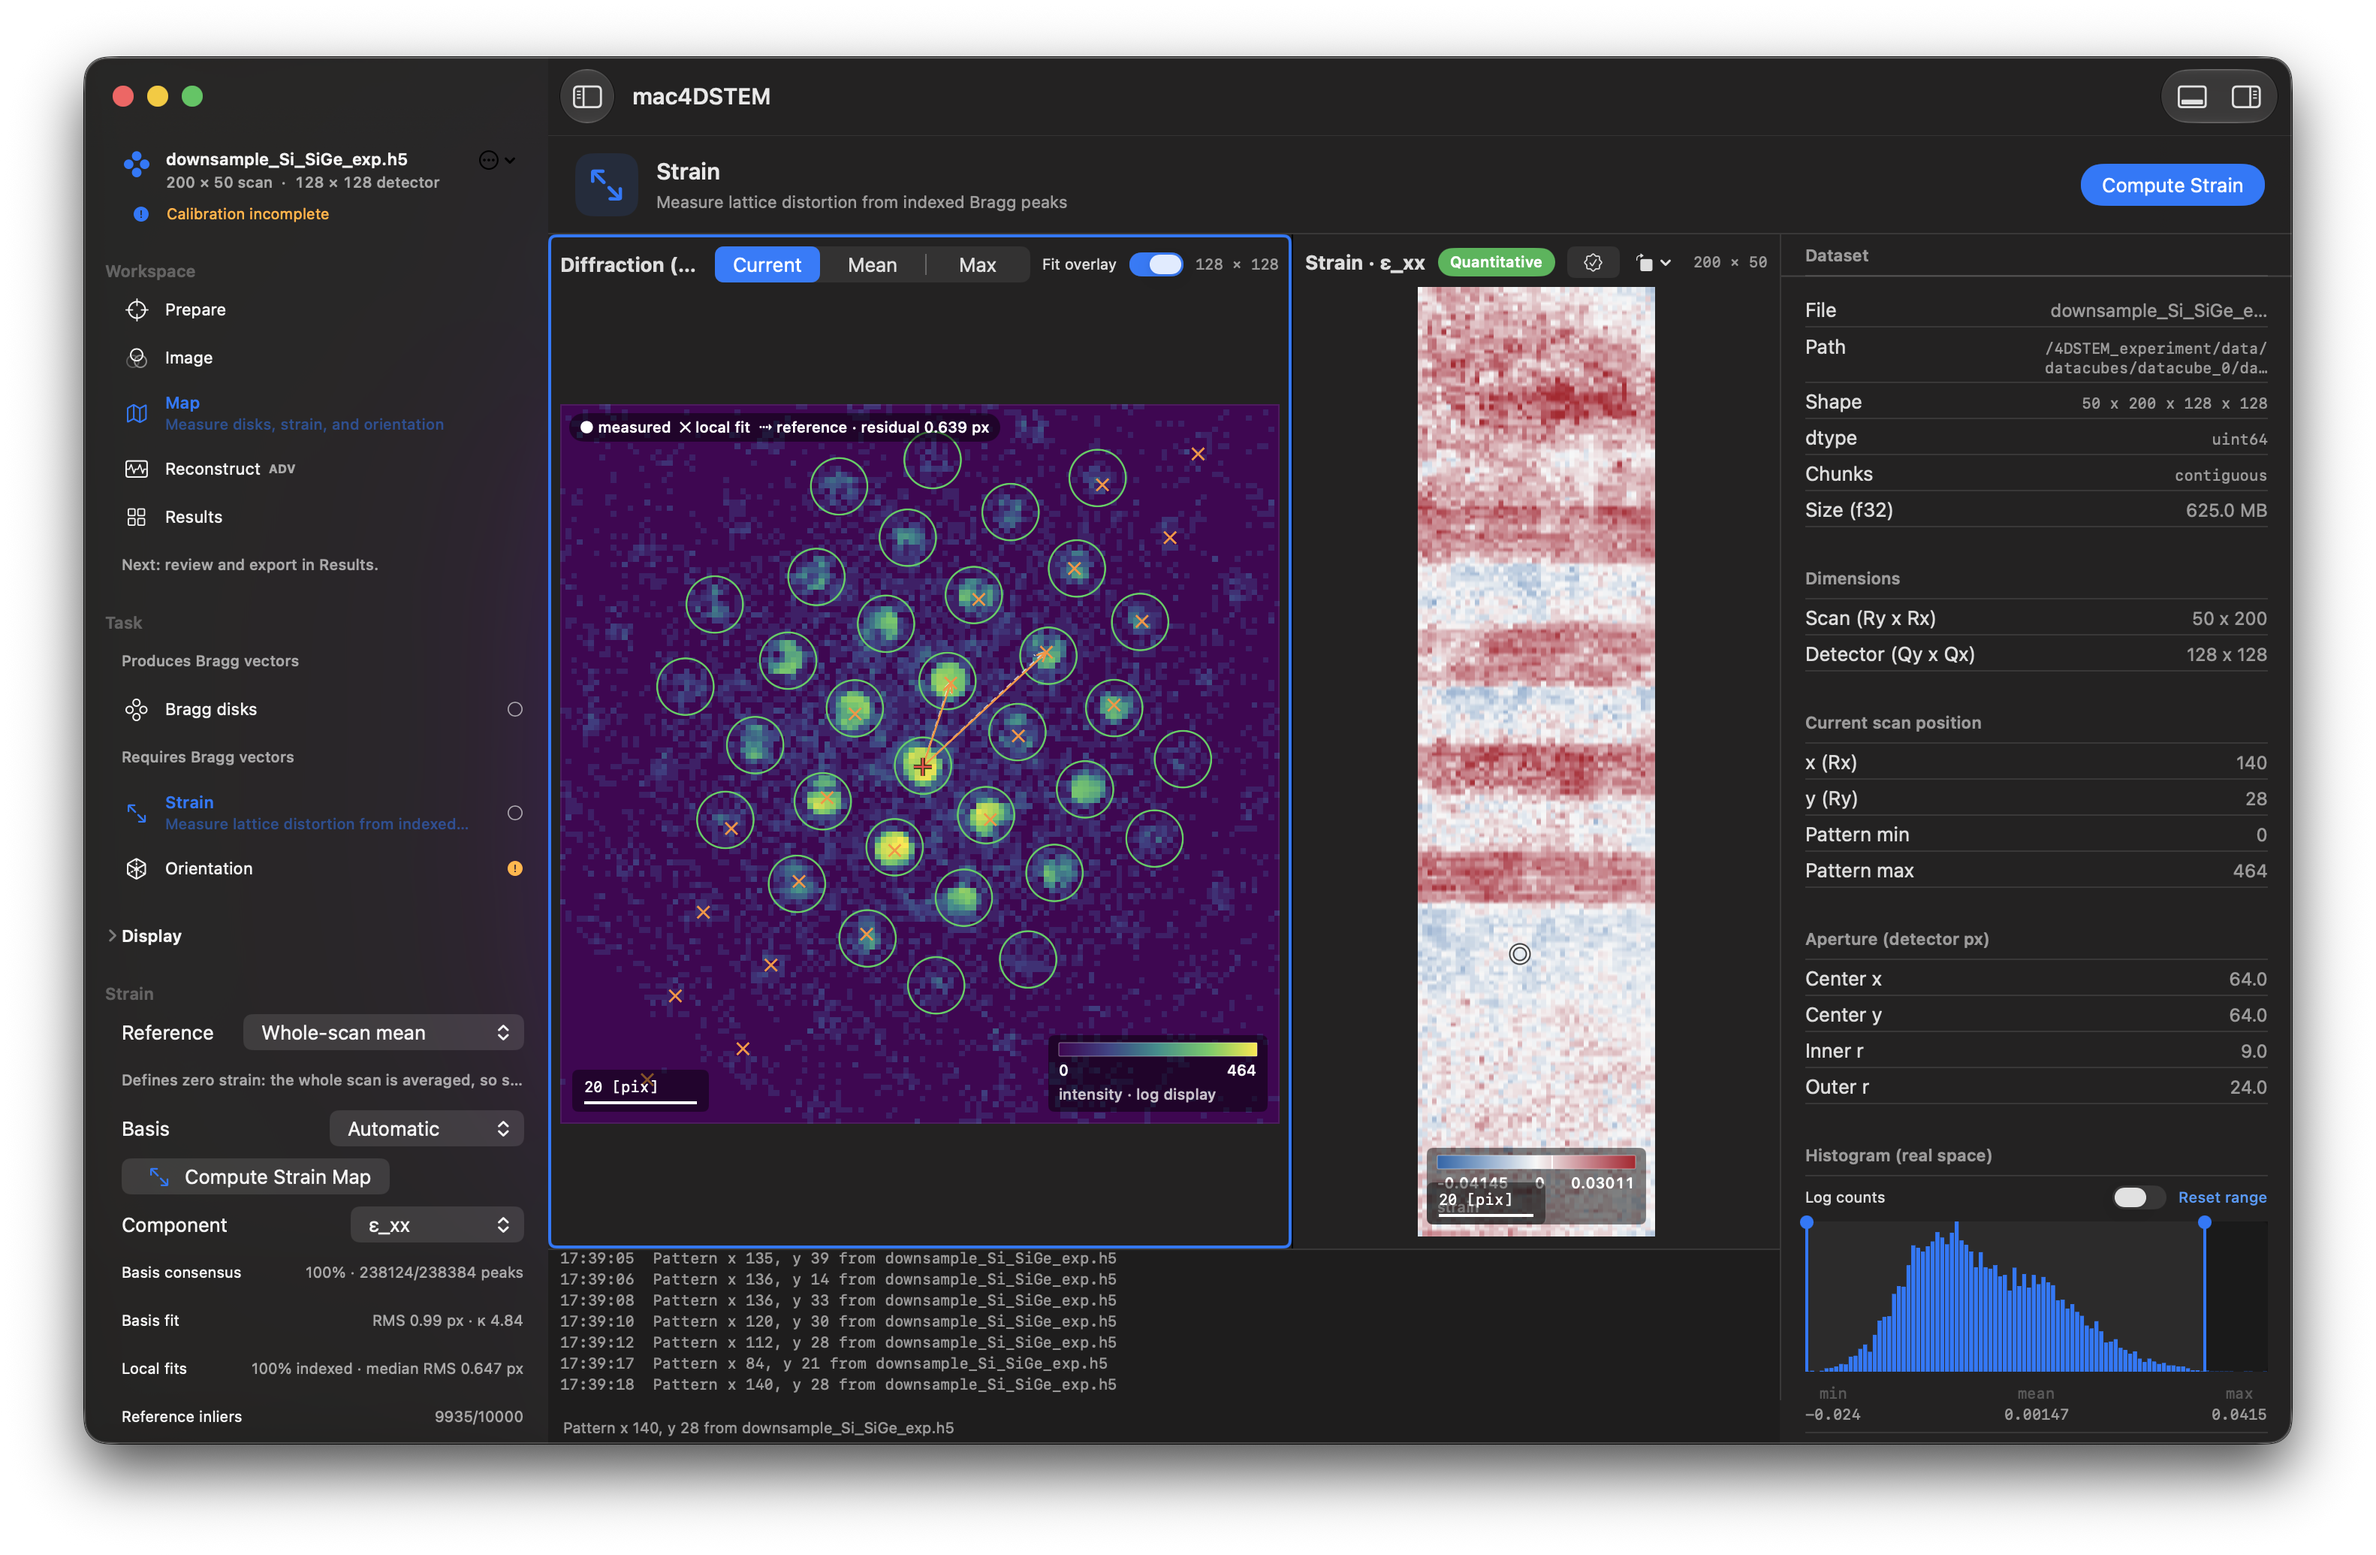
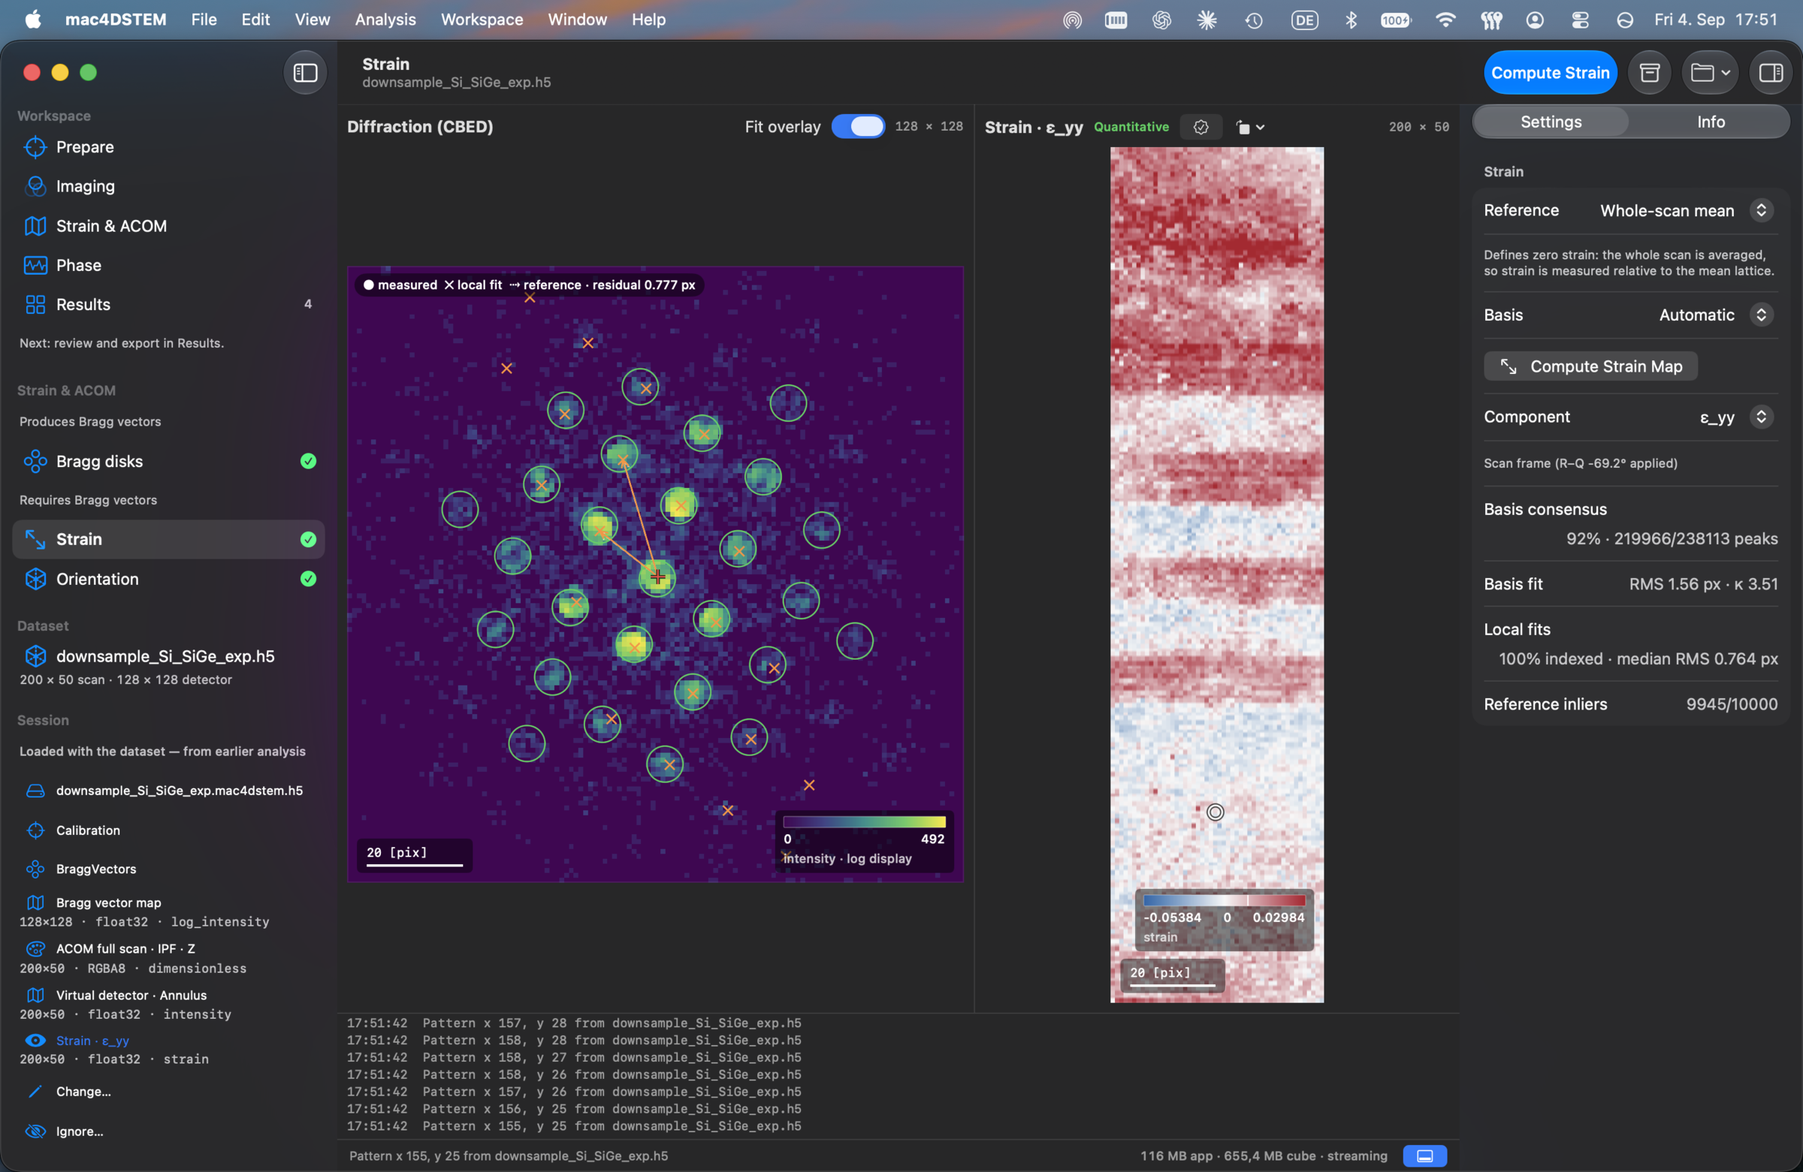
v2.5.0 artefact provenance, a current screenshot, and a shorter README
The DMG exists and is verified, so the docs can now cite it instead of
promising it. Built from 3c0a3eb; the app notarized as
af7cc0f4-d354-4c7a-bcb9-d245deda5ea1 and the disk image built from that stapled
app notarized separately as f4aa1d12-91a4-412d-8ad9-979289aede6c, both Accepted
and stapled. Verified independently of the release script: spctl returns
accepted / source=Notarized Developer ID, stapler validates, and the SHA-256 was
recomputed by hand — d55821a11dde44b6fc2d1337f43b5eb3ec2342fe6374d0dcc3f72d13ee234c75,
6 074 038 bytes.

The README hero was a v1.0.0 capture of a window that no longer exists; its own
caption admitted a current one was owed. Replaced with the owner's 2026-09-04
capture of the Strain & ACOM workspace, which also shows the Session section in
its new home. The alt text now describes what the image actually contains.

README prose is down 22% on the original word count while gaining a "New in
v2.5.0" section, on the owner's note that it read long and generic. The
verification section keeps every number and the fact that `all` exited 1 —
brevity was taken out of the padding, not the honesty.

diff --git a/README.md b/README.md
@@ -9,69 +9,113 @@
 </p>
 
 <p align="center">
-  <img src="docs/images/strain-map-workspace.png" alt="mac4DSTEM v1.0.0 Map workspace: diffraction fit overlay, strain map, and diagnostics" width="100%">
+  <img src="docs/images/strain-map-workspace.png" alt="mac4DSTEM v2.5.0: a convergent-beam diffraction pattern with detected Bragg disks and lattice fit overlay, beside the resulting epsilon-yy strain map, with fit diagnostics in the inspector" width="100%">
 </p>
 
-<p align="center"><sub>Captured from v1.0.0 (2026-08-06). The window was rebuilt in SwiftUI on 2026-09-04 and the workspaces renamed (Prepare / Imaging / Strain &amp; ACOM / Phase / Results); a current capture is owed.</sub></p>
+<p align="center"><sub>v2.5.0 — the Strain &amp; ACOM workspace.</sub></p>
 
 ---
 
-## Overview
+4D-STEM records a full diffraction pattern at every probe position. Analysing
+those datasets — virtual imaging, strain, orientation, phase — usually happens
+offline, in scripts, away from the data. mac4DSTEM does it interactively:
+detector geometry, calibration and reconstruction parameters change against a
+live view, so you see what a choice does while you make it.
 
-Four-dimensional scanning transmission electron microscopy records a complete convergent-beam electron diffraction pattern at every probe position. The resulting datasets are large, and the analysis that extracts science from them, including virtual imaging, strain, orientation, and phase reconstruction, has conventionally been performed offline in scripted environments, at a remove from the data.
+Algorithms are ported from [py4DSTEM](https://github.com/py4dstem/py4DSTEM) and
+gated against it, so results trace back to the reference implementation.
 
-mac4DSTEM brings that analysis into an interactive application. Detector geometry, calibration, and reconstruction parameters can be adjusted against a live view of the data, so the effect of a decision is visible as it is made rather than after a batch run completes.
+## New in v2.5.0
 
-The application is built directly on Apple Silicon's unified memory and GPU. Its algorithms are ported from [py4DSTEM](https://github.com/py4dstem/py4DSTEM) and validated against it, so results are traceable to the established reference implementation in the field. The gated harnesses compare against py4DSTEM on synthetic and analytic fixtures; parity on experimental acquisitions is `tools/training-dataset-campaign`, which needs multi-GB datasets that are not in the repository and is therefore not part of the public gate.
+- **Rehearse, then promote.** Work out an analysis on a cropped or binned view,
+  then replay it on the full cube unattended. Detector-pixel parameters are
+  re-referenced into the full frame; the reduced-file export carries the recipe.
+- **Streaming residency** for cubes larger than memory.
+- **The window is rebuilt in SwiftUI** — five workspaces, and a Session section
+  in the sidebar showing what was saved beside your dataset and restored with it.
+- **Speed.** An exact Bluestein FFT for any detector size: Detect All Disks on a
+  250 px cube went from 14 minutes to under 15 seconds in Release, same peaks.
+- **Refusals over guesses.** A calibration fit that fails its gate reports "not
+  quantitative" instead of a number. CIF import refuses what it cannot expand.
 
-## Capabilities
+Full notes: [`CHANGELOG.md`](CHANGELOG.md).
 
-- **Data exploration**: real and reciprocal space presented together, with calibrated scale bars, contrast control, and GPU-rendered CBED display.
-- **Virtual imaging**: bright-field, annular dark-field, and HAADF geometries, plus arbitrary annular, rectangular, and point detectors positioned interactively on the diffraction plane.
-- **Calibration**: probe and origin fitting across the scan, elliptical distortion correction, real-reciprocal rotation, and reciprocal-space sampling against a known crystal.
-- **Bragg disk detection**: GPU cross-correlation with parabolic and DFT-upsampled subpixel refinement, and live acceptance diagnostics.
-- **Strain mapping**: robust local lattice fitting against a whole-scan or region reference, with basis consensus, residual, and indexed fraction reported alongside every map.
-- **Orientation mapping**: polar-correlation template matching against a validated crystal catalogue or an imported CIF, with reliability and inverse-pole-figure output.
-- **Phase reconstruction**: DPC, iDPC, parallax, and single-slice ptychography.
-- **Interoperability**: EMD export of Bragg vectors, calibrated datacubes, and preprocessed products, readable directly in py4DSTEM.
+## What it does
 
-Every quantity carries its calibration and provenance through display, export, and reopening. Where a measurement is not quantitatively supported, the result is labelled accordingly rather than presented as though it were.
+- **Explore** real and reciprocal space together, calibrated and GPU-rendered.
+- **Virtual imaging** — BF, ADF, HAADF, plus annular, rectangular and point
+  detectors placed by hand.
+- **Calibration** — probe and origin fitting, elliptical distortion,
+  real–reciprocal rotation, reciprocal sampling from a known crystal.
+- **Bragg disks** — GPU cross-correlation, parabolic and DFT-upsampled subpixel,
+  live acceptance diagnostics.
+- **Strain** — robust local lattice fitting, with basis consensus, residual and
+  indexed fraction on every map.
+- **Orientation** — polar-correlation template matching against a validated
+  catalogue or your own CIF, with reliability and IPF output.
+- **Phase** — DPC, iDPC, parallax, single-slice ptychography.
+- **Export** — EMD Bragg vectors, datacubes and products, readable in py4DSTEM.
 
-## Status
+Every quantity carries its calibration and provenance through display, export
+and reopening. Where a measurement is not quantitatively supported, it says so.
 
-**v2.5.0** is the shipped release (2026-09-04). The analysis workflow is covered by gates anyone with the repository can reproduce, and each number below is quoted from the run that produced it rather than from an average:
+## Verification
 
-- `tools/run-tests.sh unit` — **457 passed, 0 failed, 1 skipped**, exit 0, 2026-09-04.
-- `tools/run-tests.sh all` — last run 2026-09-03: 43 harnesses green — py4DSTEM 0.14.19 parity against the pinned upstream source on synthetic and analytic fixtures, plus `real-data-acceptance` on experimental acquisitions against its own recorded baseline — and **exit 1** at `package-test`, whose literal version assertion the 2.5 bump turned red. The audit now derives the version from the project and passed on that same tree, but **the aggregate has not been re-run since**, so no aggregate exit 0 is claimed here.
+Every number here is quoted from the run that produced it.
 
-The scientific set is 42 harnesses. The badge above covers four jobs on every push: the unit gate, the scientific gate, the repository's own `inventory` review, and `core`, which fails the moment `Core/` reaches upward into the app.
+- `tools/run-tests.sh unit` — **457 passed, 0 failed, 0 skipped**, exit 0
+  (2026-09-04, the release tree).
+- `tools/package-test/run.sh` — **exit 0**: nested signatures, entitlements,
+  embedded HDF5, and the declared version and macOS floor.
+- The shipped `mac4DSTEM-2.5.dmg` is signed and notarized (app and image both),
+  stapled, and `spctl`-accepted as `Notarized Developer ID`. SHA-256
[1 lines of base64/hex data omitted]
+- `tools/run-tests.sh all` — **exit 1** (2026-09-04). Unit and 42 scientific
+  harnesses green, then a failure in `real-data-acceptance` on a session-sidecar
+  file. That defect predates this release and is recorded, undiagnosed, in
+  [`docs/open-items.md`](docs/open-items.md). **No aggregate exit 0 is claimed.**
 
-That verification is numerical: the application is tested against known-correct values, not against its rendered output. What it does **not** cover is what the app draws. That is checked by a person driving the app, which exists because the numerical gate has stayed green through real on-screen defects — most recently a status-bar readout that crashed the app on a real dataset while every gate stayed green. The scripted visual checklist that used to sit here was retired on 2026-09-03 and is archived at [`docs/archive/v2/visual-acceptance-checklist-2026-09-03.md`](docs/archive/v2/visual-acceptance-checklist-2026-09-03.md). The Merlin MIB and EMPAD RAW readers remain preview-grade pending further vendor data. Current limitations are documented in [`docs/open-items.md`](docs/open-items.md).
+The badge covers four jobs on every push: unit, scientific, the repository's own
+`inventory` review, and `core`, which fails the moment `Core/` reaches up into
+the app.
+
+All of that is numerical — the app is tested against known-correct values, not
+against what it draws. What it draws is checked by a person driving it, because
+the numerical gate has stayed green through real on-screen defects.
+
+Merlin MIB and EMPAD RAW readers are preview-grade. Current limitations:
+[`docs/open-items.md`](docs/open-items.md).
 
 ## Requirements
 
-macOS 26 or later on Apple Silicon. No external runtime, toolchain, or library installation is required; all dependencies are contained within the application.
+macOS 26 or later on Apple Silicon. Nothing else to install — every dependency
+ships inside the application.
 
-## Building from source
+## Building
 
-Open `mac4DSTEM.xcodeproj` in Xcode and build the `mac4DSTEM` scheme.
+Open `mac4DSTEM.xcodeproj` and build the `mac4DSTEM` scheme.
 
-Architecture, test suites, supported file formats, and known limitations are documented in [`docs/architecture.md`](docs/architecture.md). What each release is: [`CHANGELOG.md`](CHANGELOG.md); what is live now: [`docs/status.md`](docs/status.md). The analysis pipelines and their correspondence to py4DSTEM are described in [`docs/py4dstem-pipelines.md`](docs/py4dstem-pipelines.md).
+Architecture and supported formats: [`docs/architecture.md`](docs/architecture.md).
+What is live now: [`docs/status.md`](docs/status.md). The pipelines and their
+correspondence to py4DSTEM: [`docs/py4dstem-pipelines.md`](docs/py4dstem-pipelines.md).
 
 ## Contributing
 
-Issue reports, and especially parity discrepancies with numbers attached, are welcome. See [`CONTRIBUTING.md`](CONTRIBUTING.md) for what makes a scientific bug report actionable and for the conventions that govern changes to the analysis code.
+Issue reports — especially parity discrepancies with numbers attached — are
+welcome. [`CONTRIBUTING.md`](CONTRIBUTING.md) covers what makes a scientific bug
+report actionable.
 
 ## Citing
 
-If mac4DSTEM contributes to published work, please cite both it and py4DSTEM, which is the origin of the underlying methods and the reference implementation this port is validated against. Citation metadata for both is in [`CITATION.cff`](CITATION.cff).
+Please cite mac4DSTEM and py4DSTEM, the origin of the underlying methods.
+Metadata for both: [`CITATION.cff`](CITATION.cff).
 
-## Attribution and licence
+## Licence
 
-mac4DSTEM implements algorithms ported from [py4DSTEM](https://github.com/py4dstem/py4DSTEM) and validated against it.
-
-Released under the **GNU General Public License v3.0 or later**. See [`LICENSE`](LICENSE) and [`NOTICE`](NOTICE).
+Algorithms ported from [py4DSTEM](https://github.com/py4dstem/py4DSTEM) and
+validated against it. Released under the **GNU General Public License v3.0 or
+later** — see [`LICENSE`](LICENSE) and [`NOTICE`](NOTICE).
 
 ## Contact
 
-Enquiries, issue reports, and collaboration: **mail@mac4dstem.com**
+**mail@mac4dstem.com**

diff --git a/docs/status.md b/docs/status.md
@@ -11,7 +11,7 @@ Numbers are quoted only from retained, dated runs. The per-increment log of
 |---|---|---|
 | v1.0.0 | shipped 2026-08-06, signed and notarized | `CHANGELOG.md` |
 | v2.0.0 | tagged 2026-09-02, never built; superseded, the tag stays as the pre-consolidation anchor | `CHANGELOG.md` |
-| v2.5.0 | released 2026-09-04, version/build 2.5 / 4 — the first shipped build of the SwiftUI rebuild. Gated on `unit` (457/0/0) + `package-test`, both exit 0; **`run-tests.sh all` was attempted and exited 1** on a pre-existing sidecar defect (`open-items.md`), and the notes say so. Artefact provenance in the commit that follows the build. Build 3 (`df80e8e`) is superseded, kept as `mac4DSTEM-2.5-build3-superseded.dmg` | `CHANGELOG.md` |
+| v2.5.0 | released 2026-09-04, version/build 2.5 / 4 — the first shipped build of the SwiftUI rebuild. Gated on `unit` (457/0/0) + `package-test`, both exit 0; **`run-tests.sh all` was attempted and exited 1** on a pre-existing sidecar defect (`open-items.md`), and the notes say so. Artefact: built from `3c0a3eb`, app notarization `af7cc0f4`, DMG notarization `f4aa1d12`, both Accepted and stapled, `spctl` accepted; DMG SHA-256 `d55821a1…4c75`, 6 074 038 bytes. Build 3 (`df80e8e`) is superseded, kept as `mac4DSTEM-2.5-build3-superseded.dmg` | `CHANGELOG.md` |
 
 ## Where the UI stands
 

diff --git a/CHANGELOG.md b/CHANGELOG.md
@@ -86,6 +86,14 @@ stays as the pre-consolidation anchor.)
   `ActivityLog` took it off `AppState`; the sidecar contents were checked in
   their new home in the left sidebar. Two things remain unverified on screen —
   a cropped save → quit → reopen, and every divider, which no gate can measure.
+- **The shipped artefact.** Built from `3c0a3eb`, Developer ID archive, then
+  notarized TWICE as the procedure requires — the app
+  (`af7cc0f4-d354-4c7a-bcb9-d245deda5ea1`, Accepted) and then the disk image
+  built from that stapled app (`f4aa1d12-91a4-412d-8ad9-979289aede6c`,
+  Accepted), because Gatekeeper assesses the thing the user opens. Both stapled
+  and validated; `spctl` on the DMG returns `accepted`,
+  `source=Notarized Developer ID`. `mac4DSTEM-2.5.dmg`, 6 074 038 bytes,
[1 lines of base64/hex data omitted]
 - Superseded and never released: builds from `df80e8e`, `b026cd7` and `749dbb2`
   (2026-09-03). The first was notarized but carried the AppKit UI retired the
   next day in `d5786e2`. Their provenance is in `docs/archive/v2/`.
